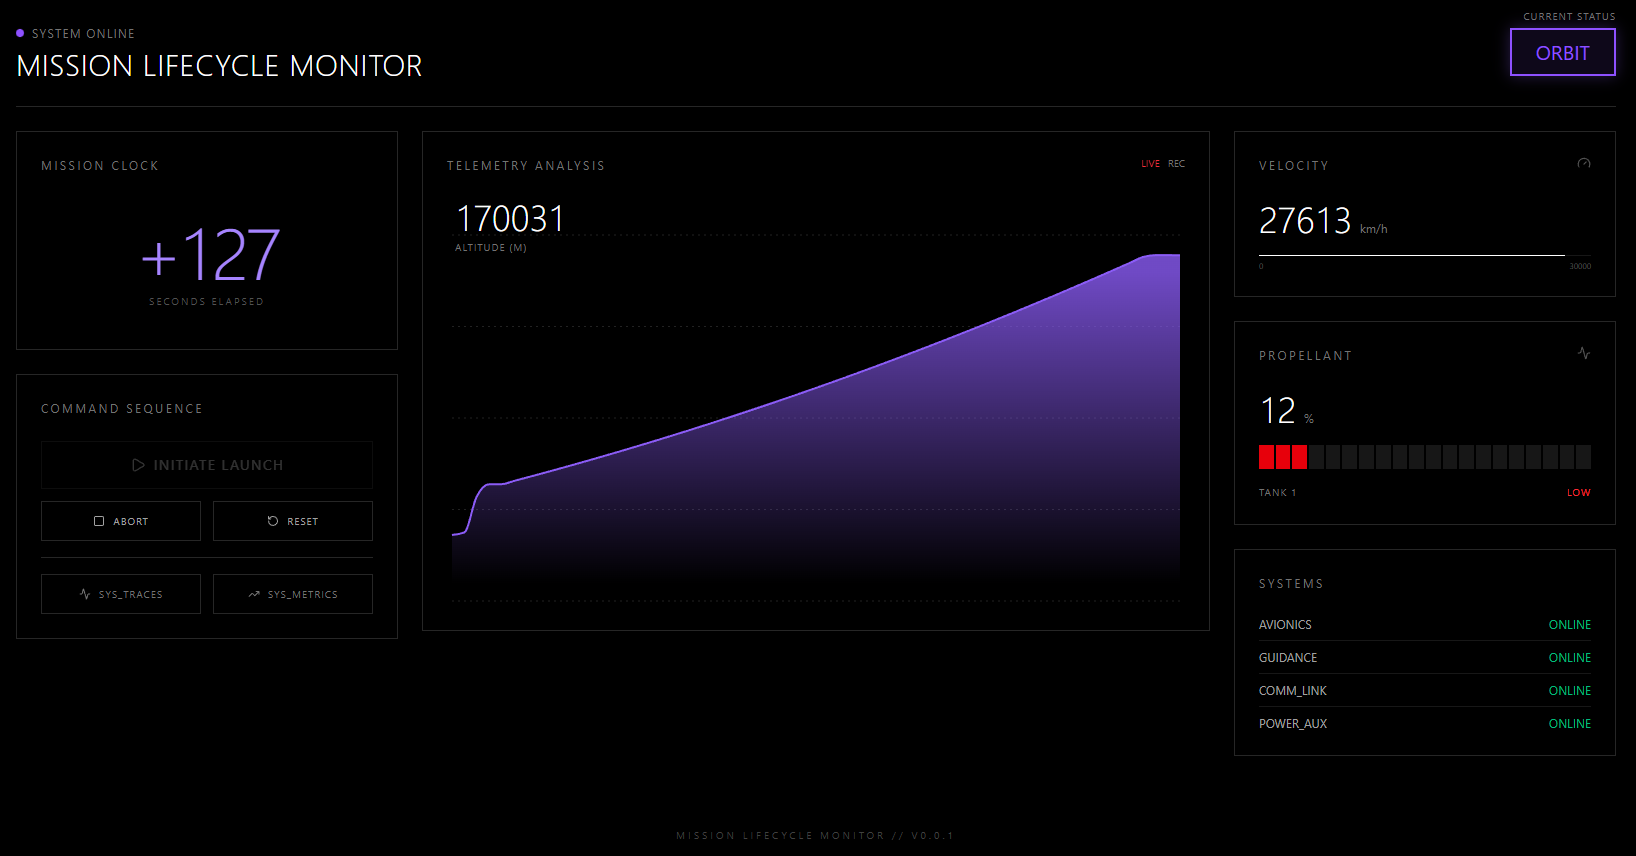
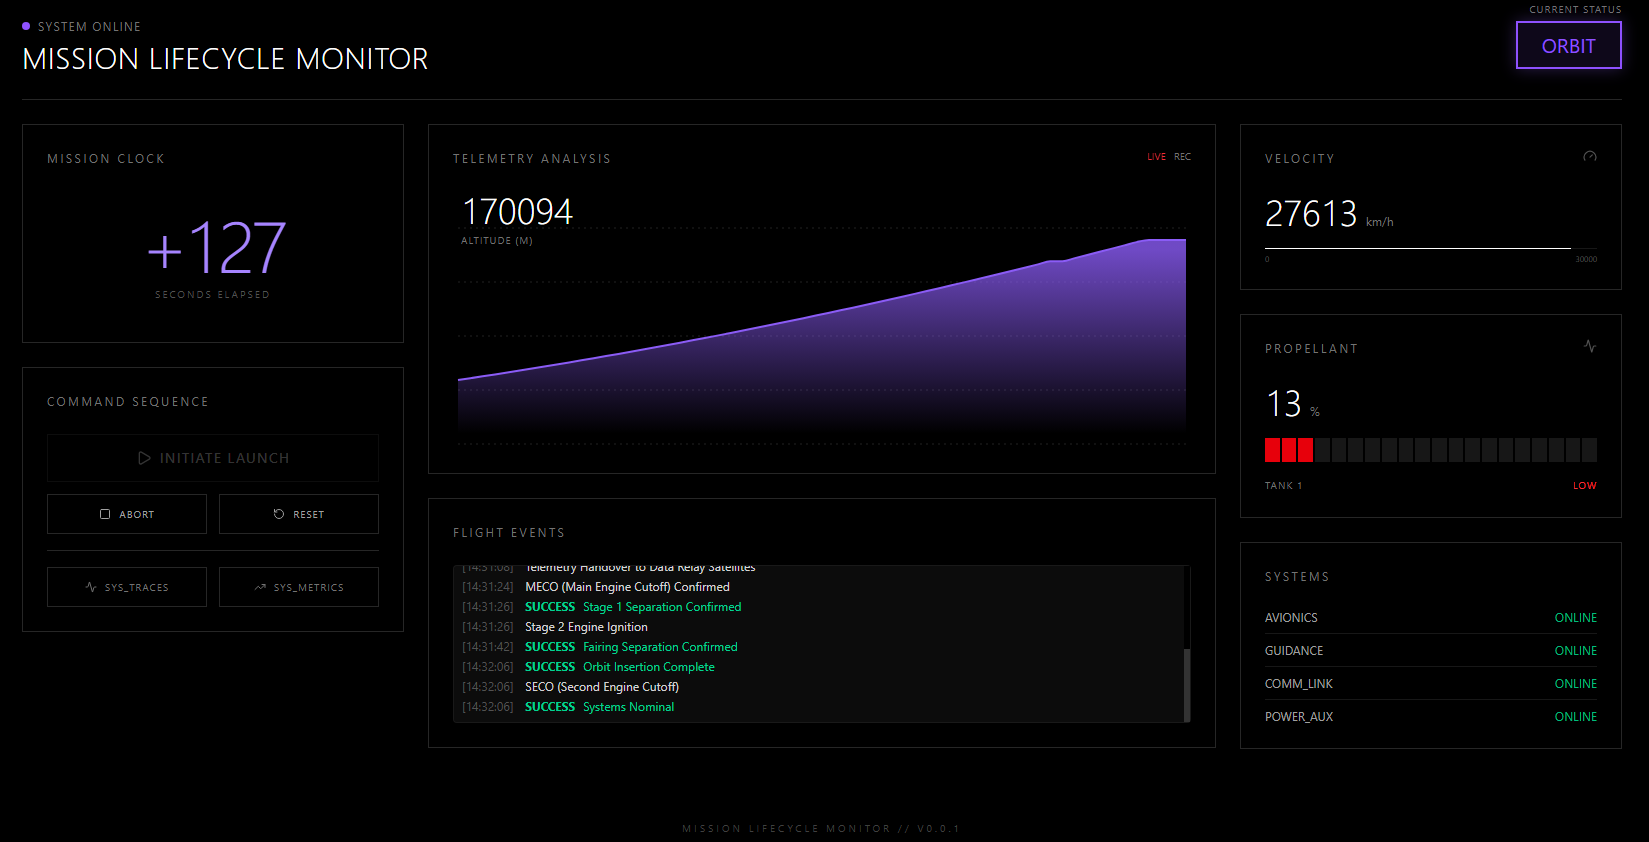
Edited readme

diff --git a/README.md b/README.md
@@ -68,11 +68,74 @@ This is not just a "happy path" demo. The system includes a **probabilistic fail
 
 ---
 
+---
+
+## 📝 Event Log Reference
+
+### 📡 Collection & Storage Mechanism
+
+The system uses a modern observability stack for log management:
+
+*   **Log Backend**: **Grafana Loki**. The architecture includes a Loki instance (port 3100) for high-performance log aggregation.
+*   **Live Visualization**: The Mission Control dashboard acts as a real-time **"Live Tail"** client. For this demonstration, it polls the Flight Computer's immediate state buffer to achieve 60fps animations without the latency overhead of querying the database directly.
+*   **Format**: Structured JSON logs are generated by the backend and are compatible with OpenTelemetry log data models.
+
+1.  **Generation**: Flight Computer produces structured events.
+2.  **Aggregation**: Events are exposed for both real-time UI consumption and system retention.
+
+### 📋 Event Catalog
+
+Below is the complete reference of all events generated by the simulation:
+
+    ```javascript
+    { timestamp: "2026-01-28...", message: "MAX Q reached", type: "INFO" }
+    ```
+2.  **Exposition**: The `GET /telemetry` endpoint exposes the entire rocket state, including this events array.
+3.  **Ingestion**: The Mission Control frontend polls this endpoint every 1000ms.
+4.  **rendering**: The Terminal component diffs the new events and renders them with the appropriate color coding (Green=Success, Yellow=Warning, Red=Error).
+
+### 📋 Event Catalog
+
+Below is the complete reference of all events generated by the simulation:
+
+| Event Message | Type | Trigger Condition |
+| :--- | :---: | :--- |
+| **Pre-Launch & Launch** | | |
+| `System Reset` | `INFO` | Manual click on "Reset" button. |
+| `T-Minus 1 minute` | `INFO` | Countdown reaches 60s. |
+| `Guidance is internal` | `INFO` | Countdown reaches 10s. |
+| `Main Engine Start Sequence` | `INFO` | Countdown reaches 6s. |
+| `IGNITION! LIFTOFF! We have a liftoff.` | `SUCCESS` | Countdown reaches 0s. |
+| `Tower cleared` | `INFO` | Immediately after liftoff. |
+| **Ascent Phase** | | |
+| `Gravity Turn Maneuver Started` | `INFO` | Altitude > 1,000 m. |
+| `Vehicle is Supersonic (Mach 1)` | `INFO` | Speed > 1,234 km/h. |
+| `MAX Q reached (Maximum Dynamic Pressure)` | `INFO` | Altitude > 11,000 m. |
+| `Telemetry Handover to Data Relay Satellites`| `INFO` | Altitude > 50,000 m. |
+| `MECO (Main Engine Cutoff) Confirmed` | `INFO` | Altitude > 75,000 m. |
+| `Stage 1 Separation Confirmed` | `SUCCESS` | 2 seconds after MECO. |
+| `Stage 2 Engine Ignition` | `INFO` | Immediately after Stage Separation. |
+| `Fairing Separation Confirmed` | `SUCCESS` | Altitude > 110,000 m. |
+| `Orbit Insertion Complete` | `SUCCESS` | Altitude reaches 170 km (Target Orbit). |
+| `SECO (Second Engine Cutoff)` | `INFO` | Upon Orbit Insertion. |
+| `Systems Nominal` | `SUCCESS` | Upon Orbit Insertion. |
+| **Anomalies & Failures** | | |
+| `Telemetry Check: Signal Nominal` | `INFO` | Random operational "heartbeat" (1% chance/tick). |
+| `PROPELLANT DEPLETED BEFORE ORBIT...` | `WARNING` | Fuel reaches 0% before Orbit Insertion. |
+| `CRITICAL: Combustion Instability Detected` | `ERROR` | Random failure (5% chance) during T+0 to T+4s. |
+| `AUTOMATIC PAD ABORT TRIGGERED` | `ERROR` | triggered by Combustion Instability. |
+| `CRITICAL: Turbopump Exhaust Temp High` | `ERROR` | Random failure (~0.15%/tick) during ascent. |
+| `CRITICAL: Hydraulic Pressure Loss...` | `ERROR` | Random failure (~0.15%/tick) during ascent. |
+| `AUTOMATIC ABORT SEQUENCE INITIATED` | `ERROR` | Triggered by any ascent failure. |
+| `MANUAL ABORT COMMAND RECEIVED` | `WARNING` | User clicks "Abort" button. |
+
+---
+
 ## 🛠 Tech Stack
 
 *   **Frontend**: Next.js 15, React 19, Tailwind CSS, Lucide Icons, Recharts (Custom Implementation), Auto-scrolling Terminal UI.
 *   **Backend**: Node.js, Express.js.
-*   **Observability**: OpenTelemetry (Node.js SDK), Docker, Prometheus, Jaeger.
+*   **Observability**: OpenTelemetry (Node.js SDK), Docker, Prometheus, Jaeger, **Grafana Loki**.
 *   **Automation**: PowerShell scripting.
 
 ---
